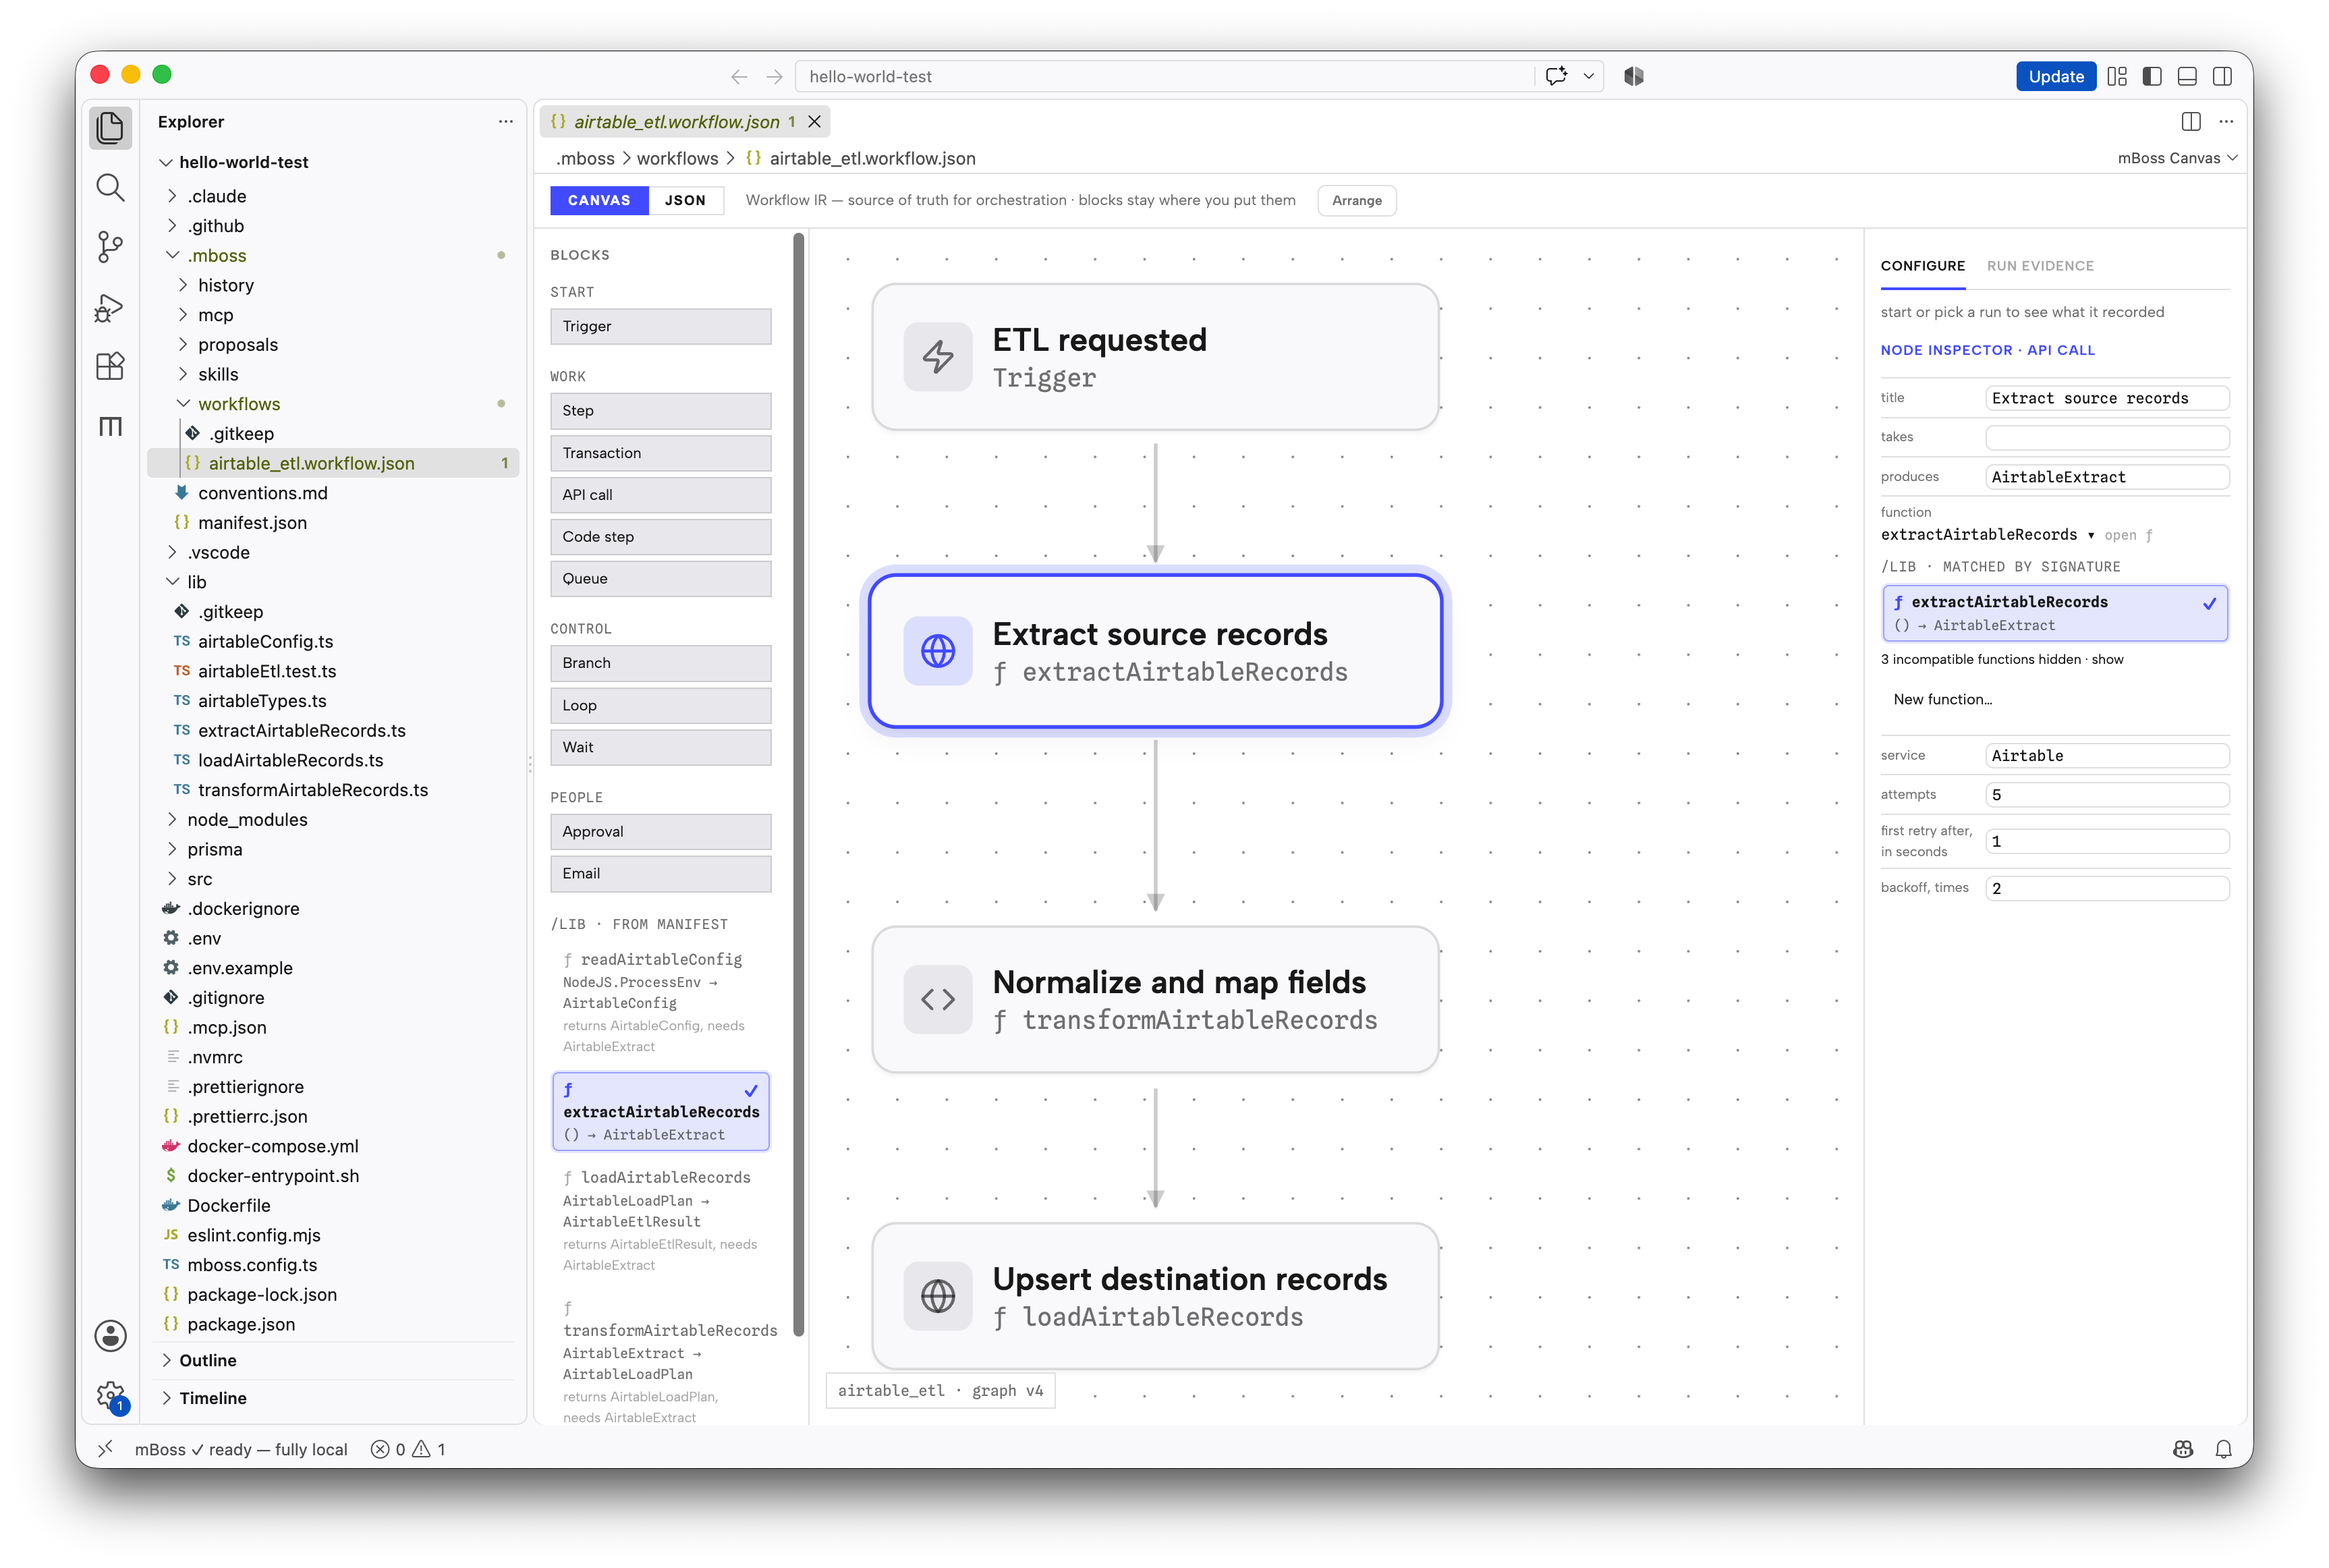
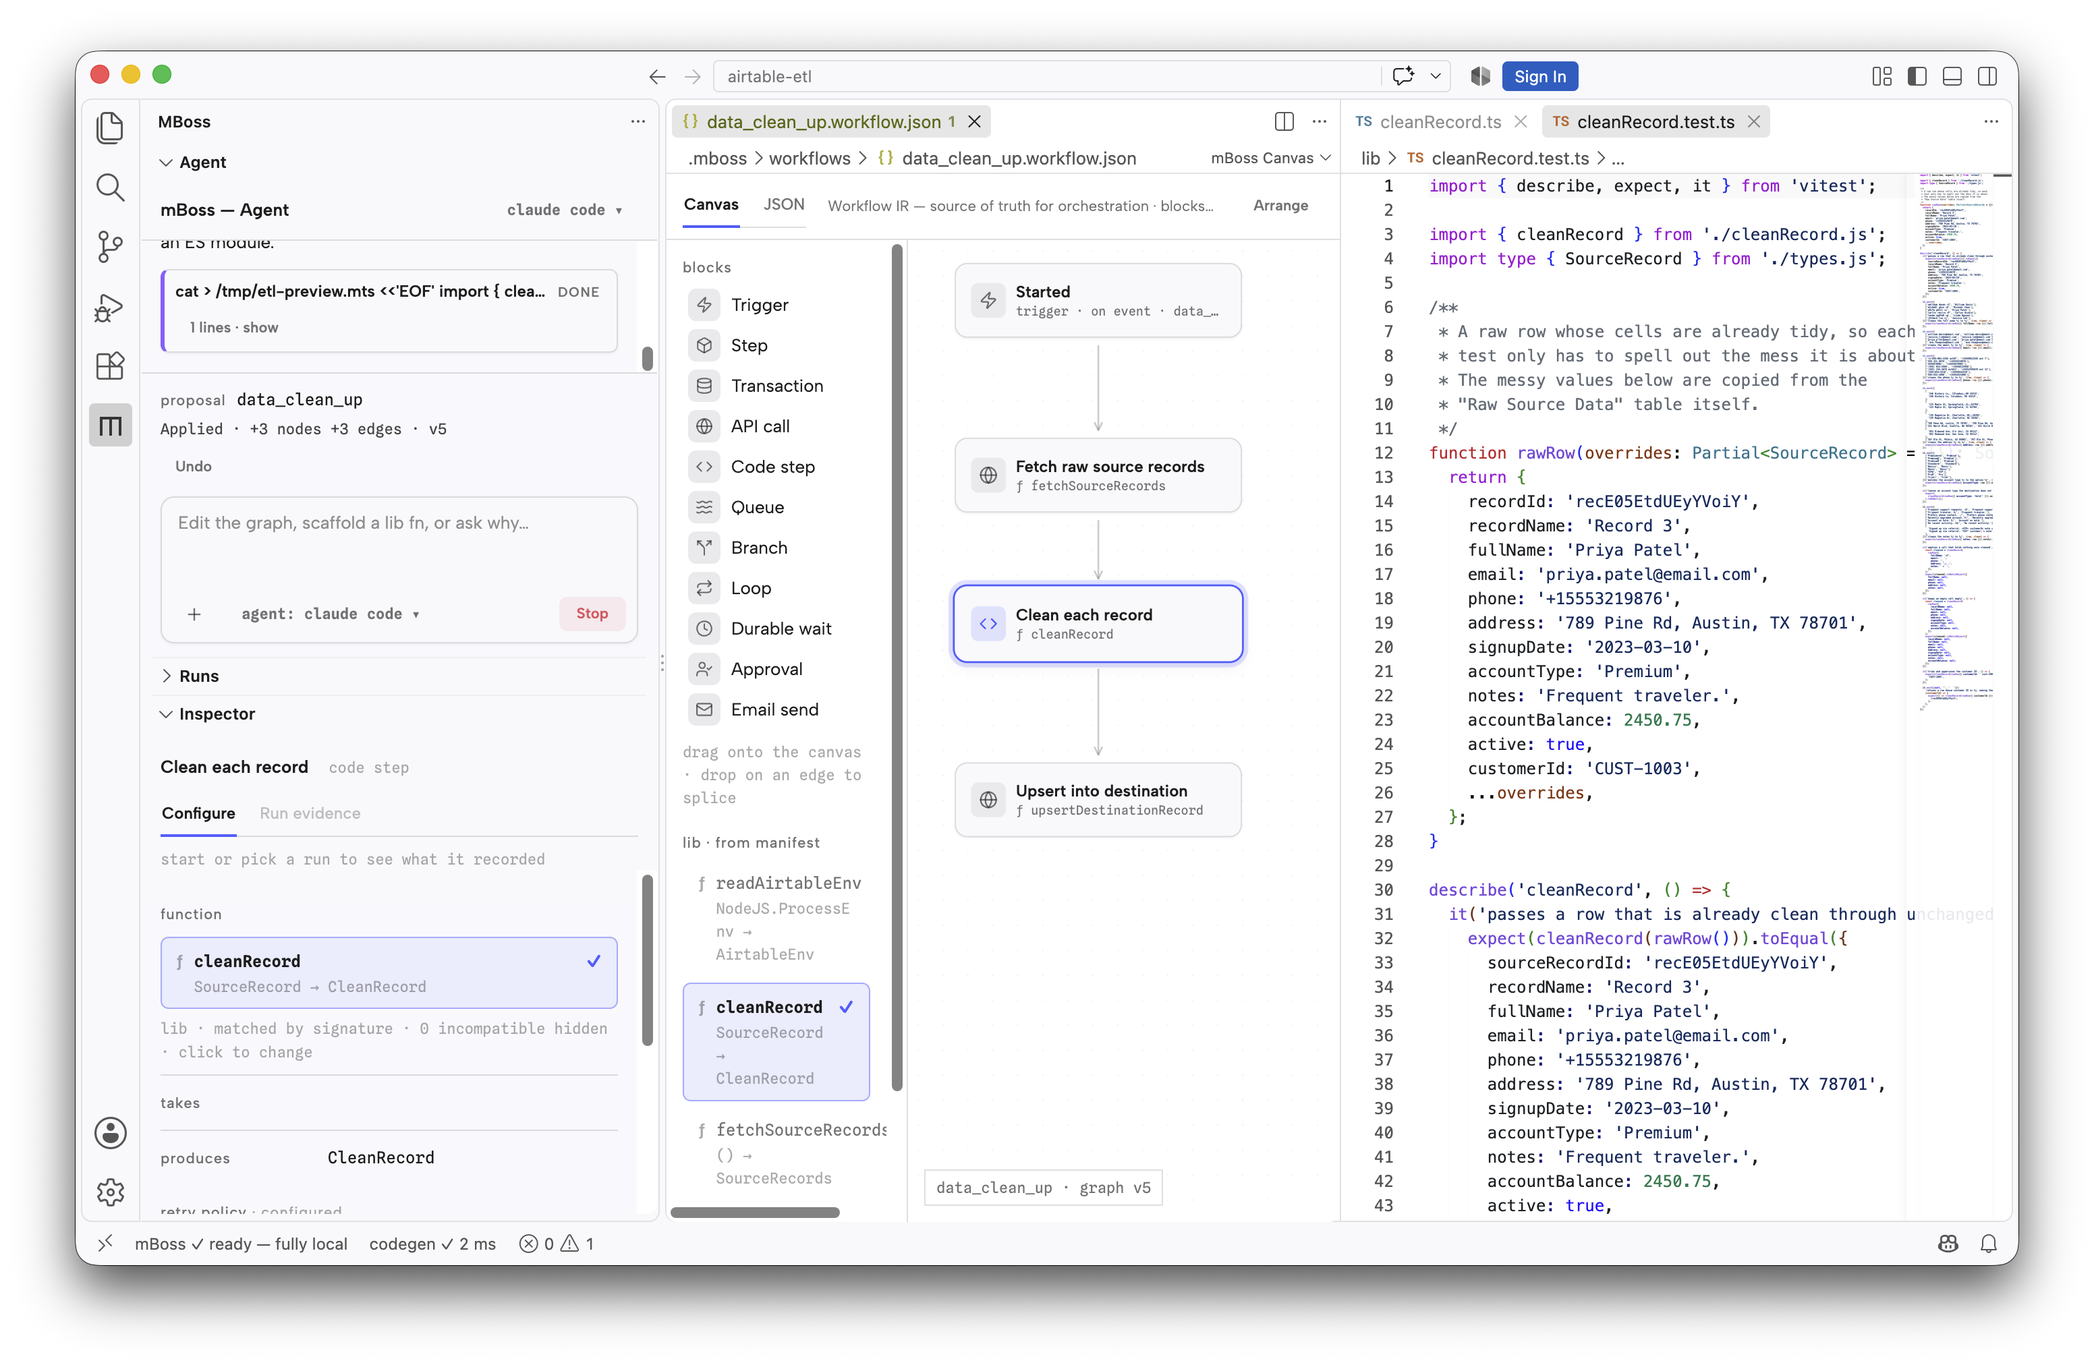
Show the redesigned extension on the Marketplace page, with the Inspector in the side bar beside the canvas
The picture the README opens with still showed the 0.0.7 canvas, with
its inspector as a third column of the editor, while the text below it
describes the Inspector as a side-bar view. It now shows the 0.0.8
screens: the canvas with the renamed palette blocks and a four-block
workflow, the mBoss side bar holding the Agent and the Inspector on the
selected block's Configure face, and that block's handler test open
beside the canvas. The alt text says the same.

Captured by hand on macOS from a real VS Code window running the 0.0.8
package, maximized on a 1440x900-point Retina display in a light
theme, with the macOS window screenshot (3104x2024 PNG, window shadow
included). The project is the author's airtable-etl, open on its
data_clean_up workflow.

diff --git a/README.md b/README.md
@@ -3,7 +3,7 @@
 Design durable apps with [DBOS](https://www.dbos.dev) on a canvas, let a coding
 agent help build them, and watch every run on your own machine.
 
-![A workflow open on the mBoss canvas: the block palette, four blocks wired top to bottom, and the inspector matching a block to its handler in lib/](media/screenshots/canvas.png)
+![A workflow open on the mBoss canvas, with its block palette and four blocks wired top to bottom; the mBoss side bar holds the Agent and the Inspector, which matches the selected block to its handler in lib/, and the handler's test is open beside the canvas](media/screenshots/canvas.png)
 
 A workflow in mBoss is a drawing: triggers, steps, branches, queues, waits and
 approvals wired together. Save it and mBoss generates the durable DBOS
